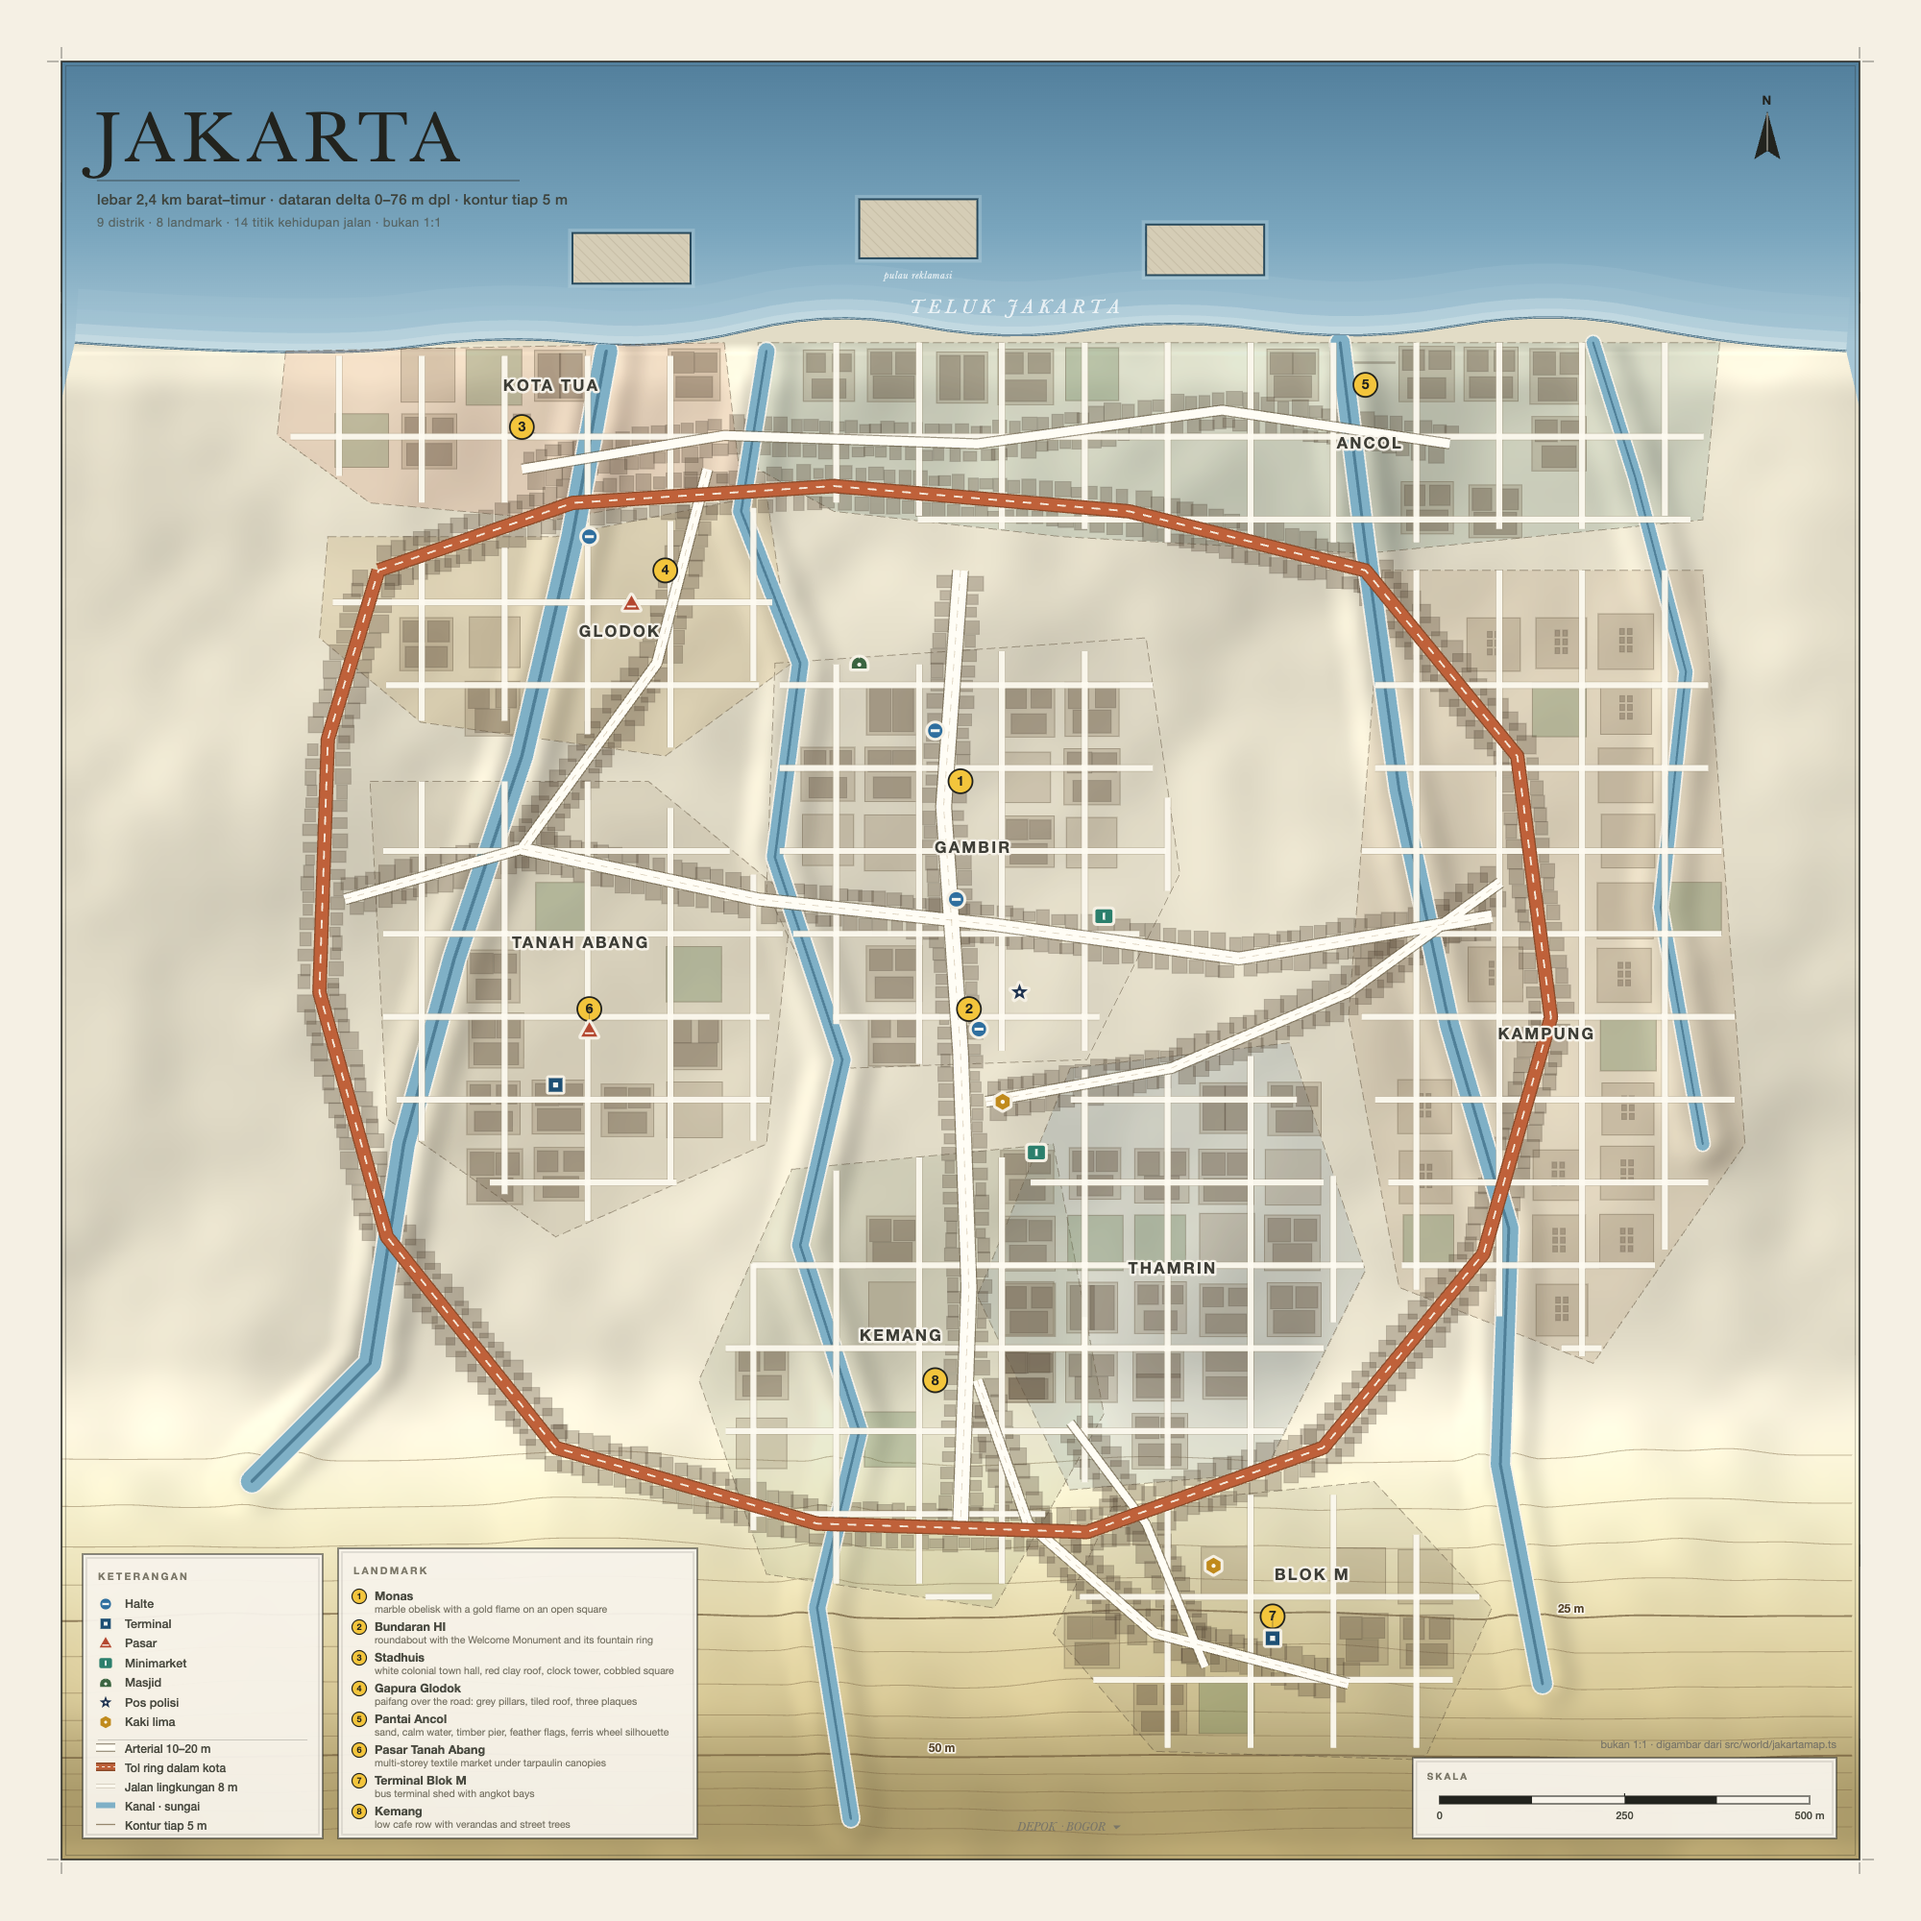
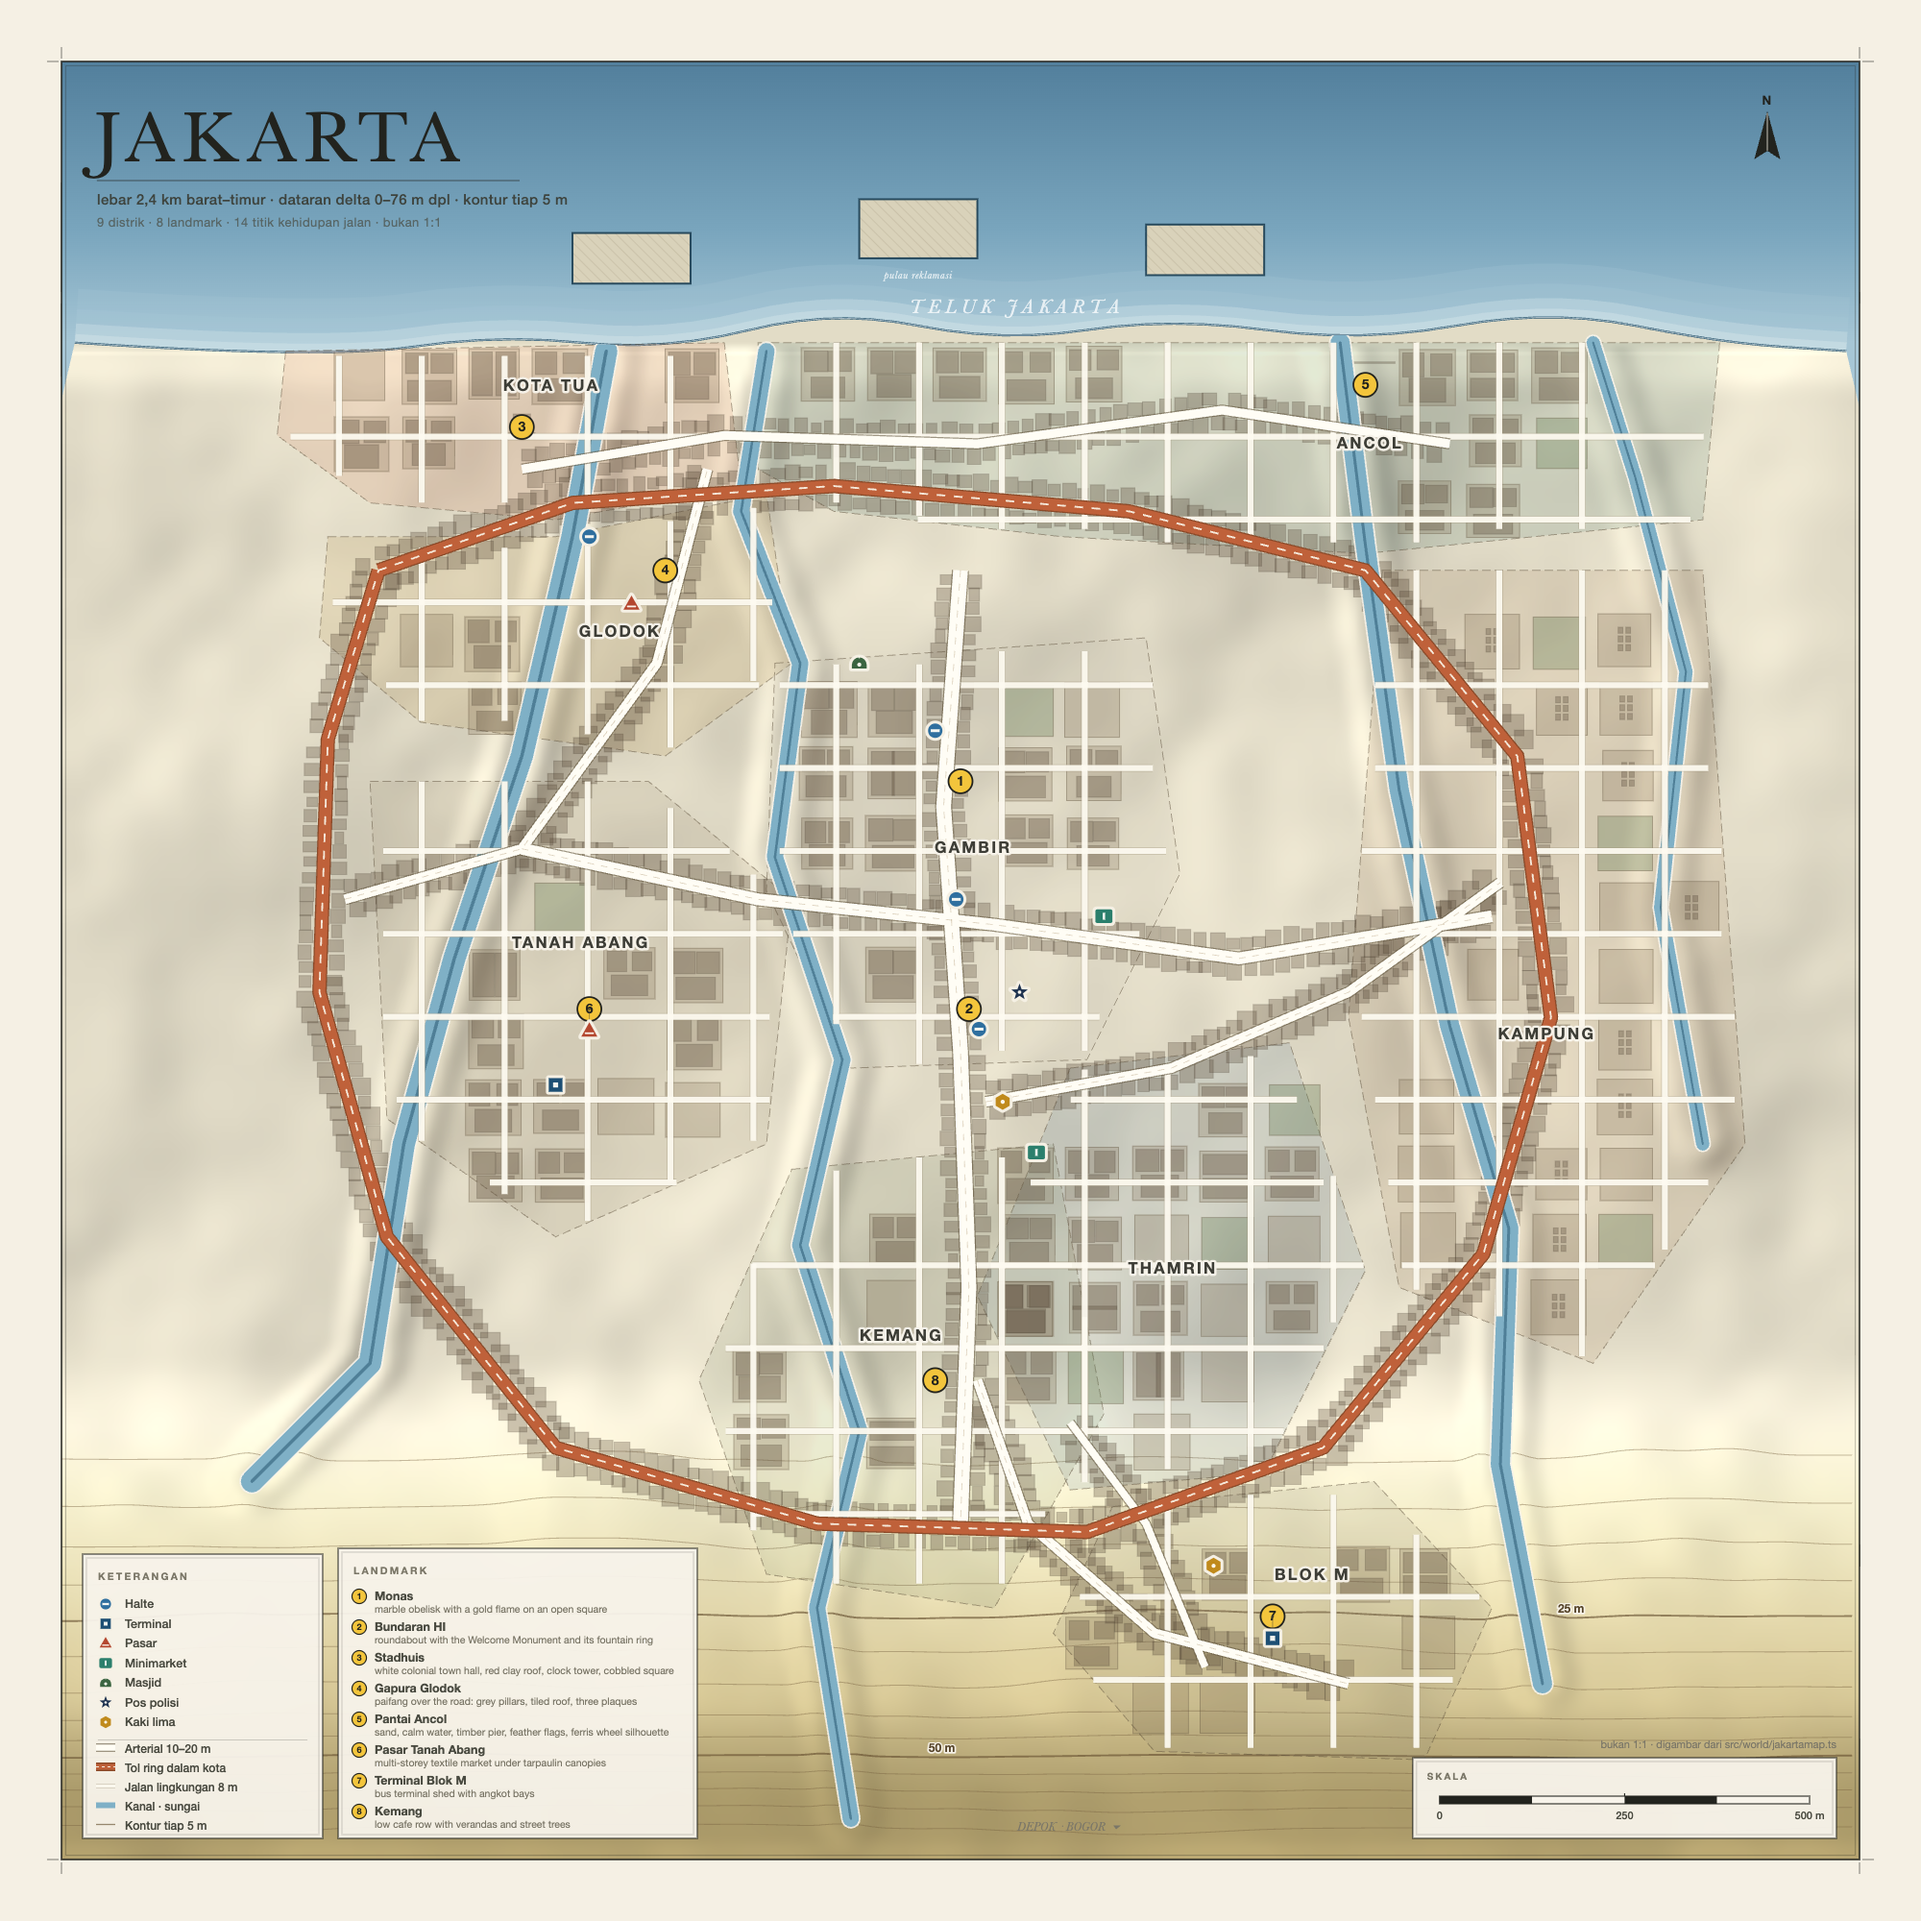
feat(map): streets that stop where the city stops, and islands that read as land
The local street grid was drawn for every district regardless of whether anything stood along it, so the sheet edges carried roads with no buildings. A run now survives only if at least two of its vertices fall within 40 m of a footprint.

The three reclaimed islands were outlined with a 9 px halo, which read as grey boxes floating on the bay. They are plain land fill with the reclamation hatch now, at the same tone as the coast.

diff --git a/tools/map-poster.js b/tools/map-poster.js
@@ -645,12 +645,7 @@
     // islands are reclaimed slabs: flat fill, no hillshade (they sit at sea level)
     for (const isl of M.ISLANDS) {
       const p = polyPath(view, isl);
-      c.save();
-      c.strokeStyle = 'rgba(207,226,231,.28)';
-      c.lineWidth = 9;
-      c.stroke(p);
-      c.restore();
-      c.fillStyle = '#d5cdb6';
+      c.fillStyle = '#d9d2ba';
       c.fill(p);
       // fine hatch: these are land under reclamation, not finished city
       c.save();
@@ -768,6 +763,16 @@
     }
 
     // ---------------- built blocks, straight from city.blocks
+    // Built-up fabric, computed once: the roads below use it to stop drawing streets through
+    // empty ground, and the blocks use it to fill themselves with buildings.
+    const FP = ((G.city && G.city.colliders) || []).filter((b) => (b.h || 0) > 3);
+    const built = (x, z) => {
+      for (const b of FP) {
+        if (x > b.minX - 40 && x < b.maxX + 40 && z > b.minZ - 40 && z < b.maxZ + 40) return true;
+      }
+      return false;
+    };
+
     const BLOCKS = (G.city && G.city.blocks) || [];
     c.save();
     c.clip(land);
@@ -786,7 +791,7 @@
     // Real building footprints. A block drawn as an empty rectangle reads as a hole in the
     // city; the colliders already carry every footprint the generator placed, so the map can
     // show the built-up fabric instead of guessing at it.
-    const FOOTPRINTS = ((G.city && G.city.colliders) || []).filter((b) => (b.h || 0) > 3);
+    const FOOTPRINTS = FP;
     for (const b of FOOTPRINTS) {
       const q = polyPath(view, [
         [b.minX, b.minZ], [b.maxX, b.minZ], [b.maxX, b.maxZ], [b.minX, b.maxZ],
@@ -820,7 +825,11 @@
     c.restore();
 
     // ---------------- local streets (8 m)
-    const localRuns = STREETS.map((st) => [linePath(view, st.path), st.width]);
+    // A street with nothing on it is a line on paper, not a road: keep the runs that pass
+    // through built fabric, so the grid stops spilling into empty ground at the sheet edges.
+    const localRuns = STREETS
+      .filter((st) => st.path.filter(([x, z]) => built(x, z)).length >= 2)
+      .map((st) => [linePath(view, st.path), st.width]);
     c.save();
     c.lineJoin = 'round';
     c.lineCap = 'butt';
